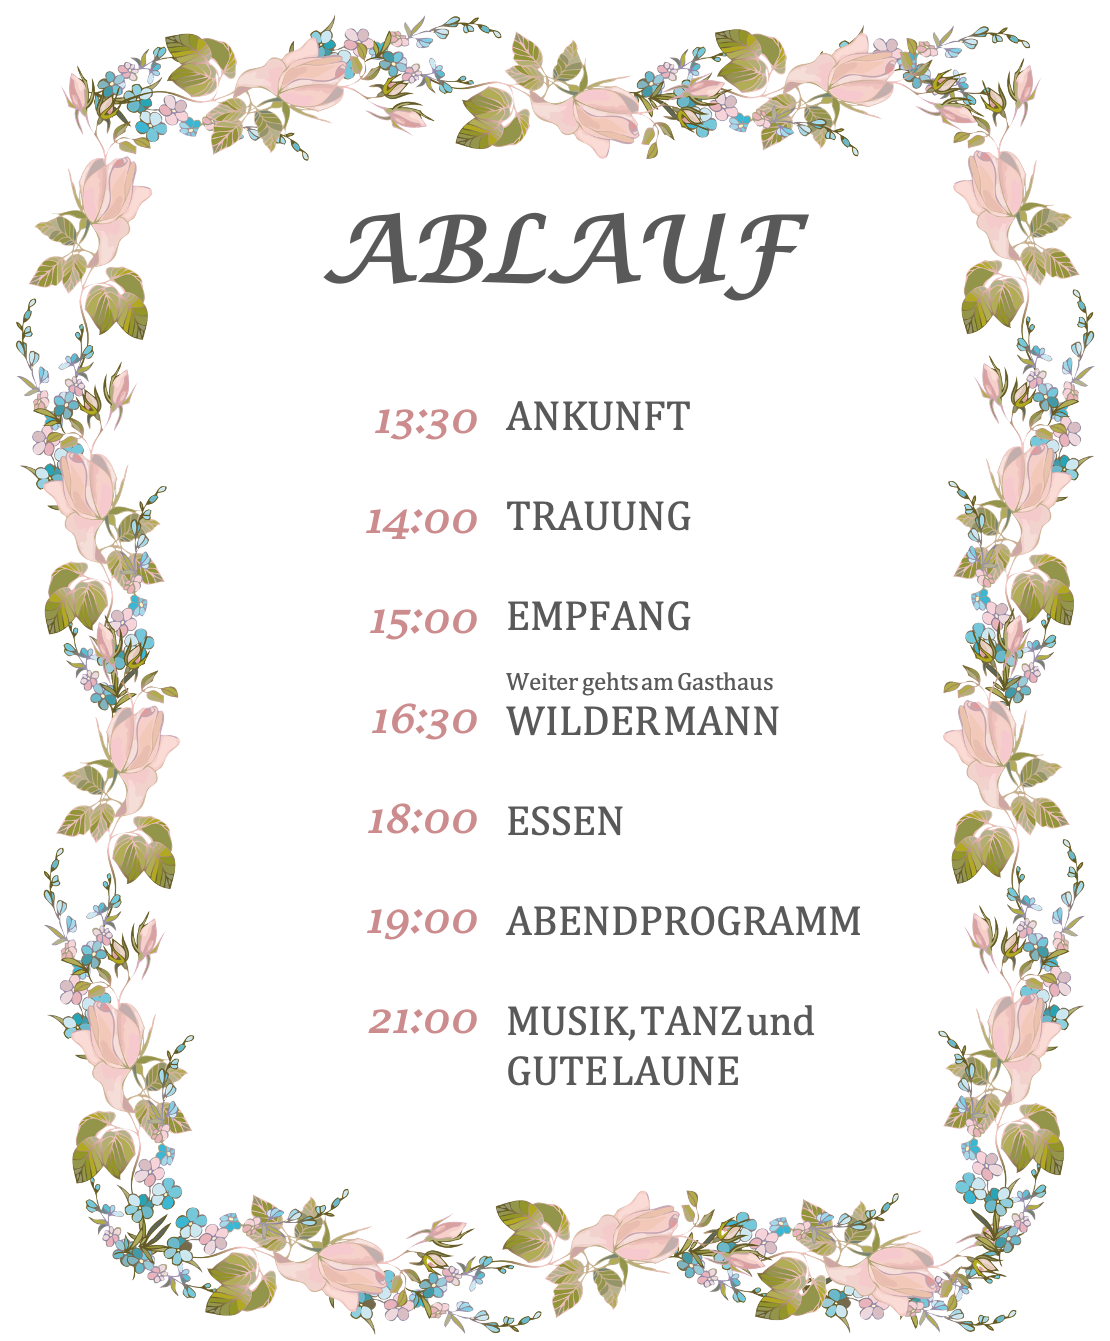
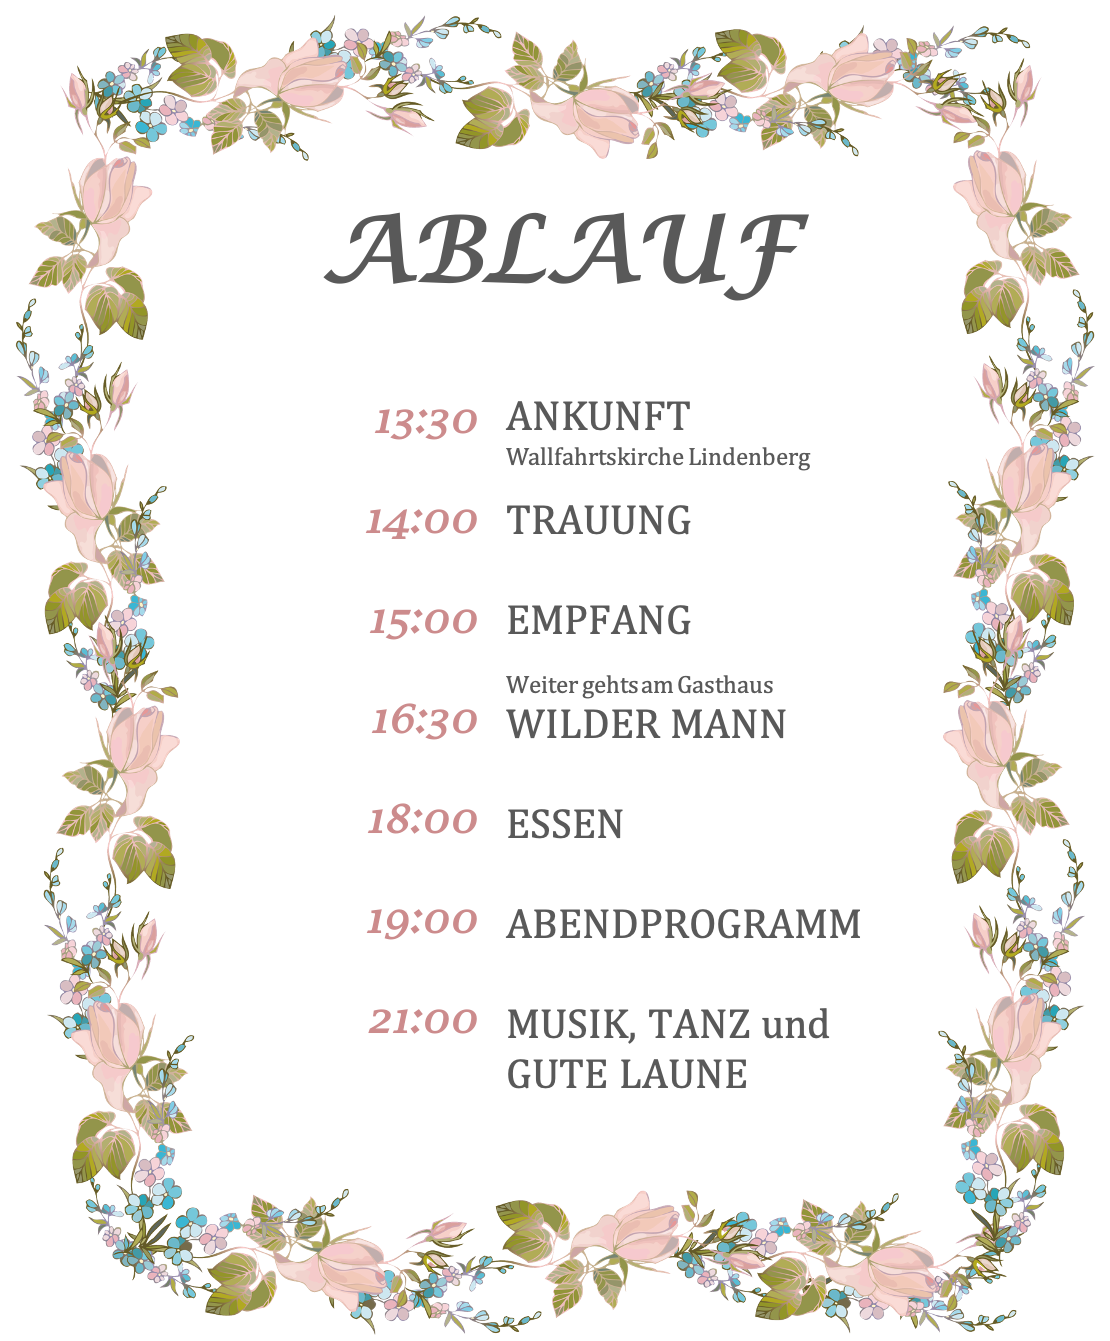
Small final changes
updated programm png and changed time in wilder mann text

diff --git a/index.html b/index.html
@@ -127,7 +127,7 @@
             <h3 class="text-center">Feier im Wilden Mann</h3>
             
             <div class="mb40">
-              <i class="fa fa-clock-o"></i> <b class="bold-colored-text">ab ca. 16:00 Uhr</b><br>
+              <i class="fa fa-clock-o"></i> <b class="bold-colored-text">ab ca. 16:30 Uhr</b><br>
               <i class="fa fa-map-marker"></i> Höllentalstraße 25, 79199 Kirchzarten
               <i class="fa fa-external-link"></i> <a href="https://goo.gl/maps/nXtvFeZTt39qAmK96"
                 target="_blank">(Google Maps)</a>
